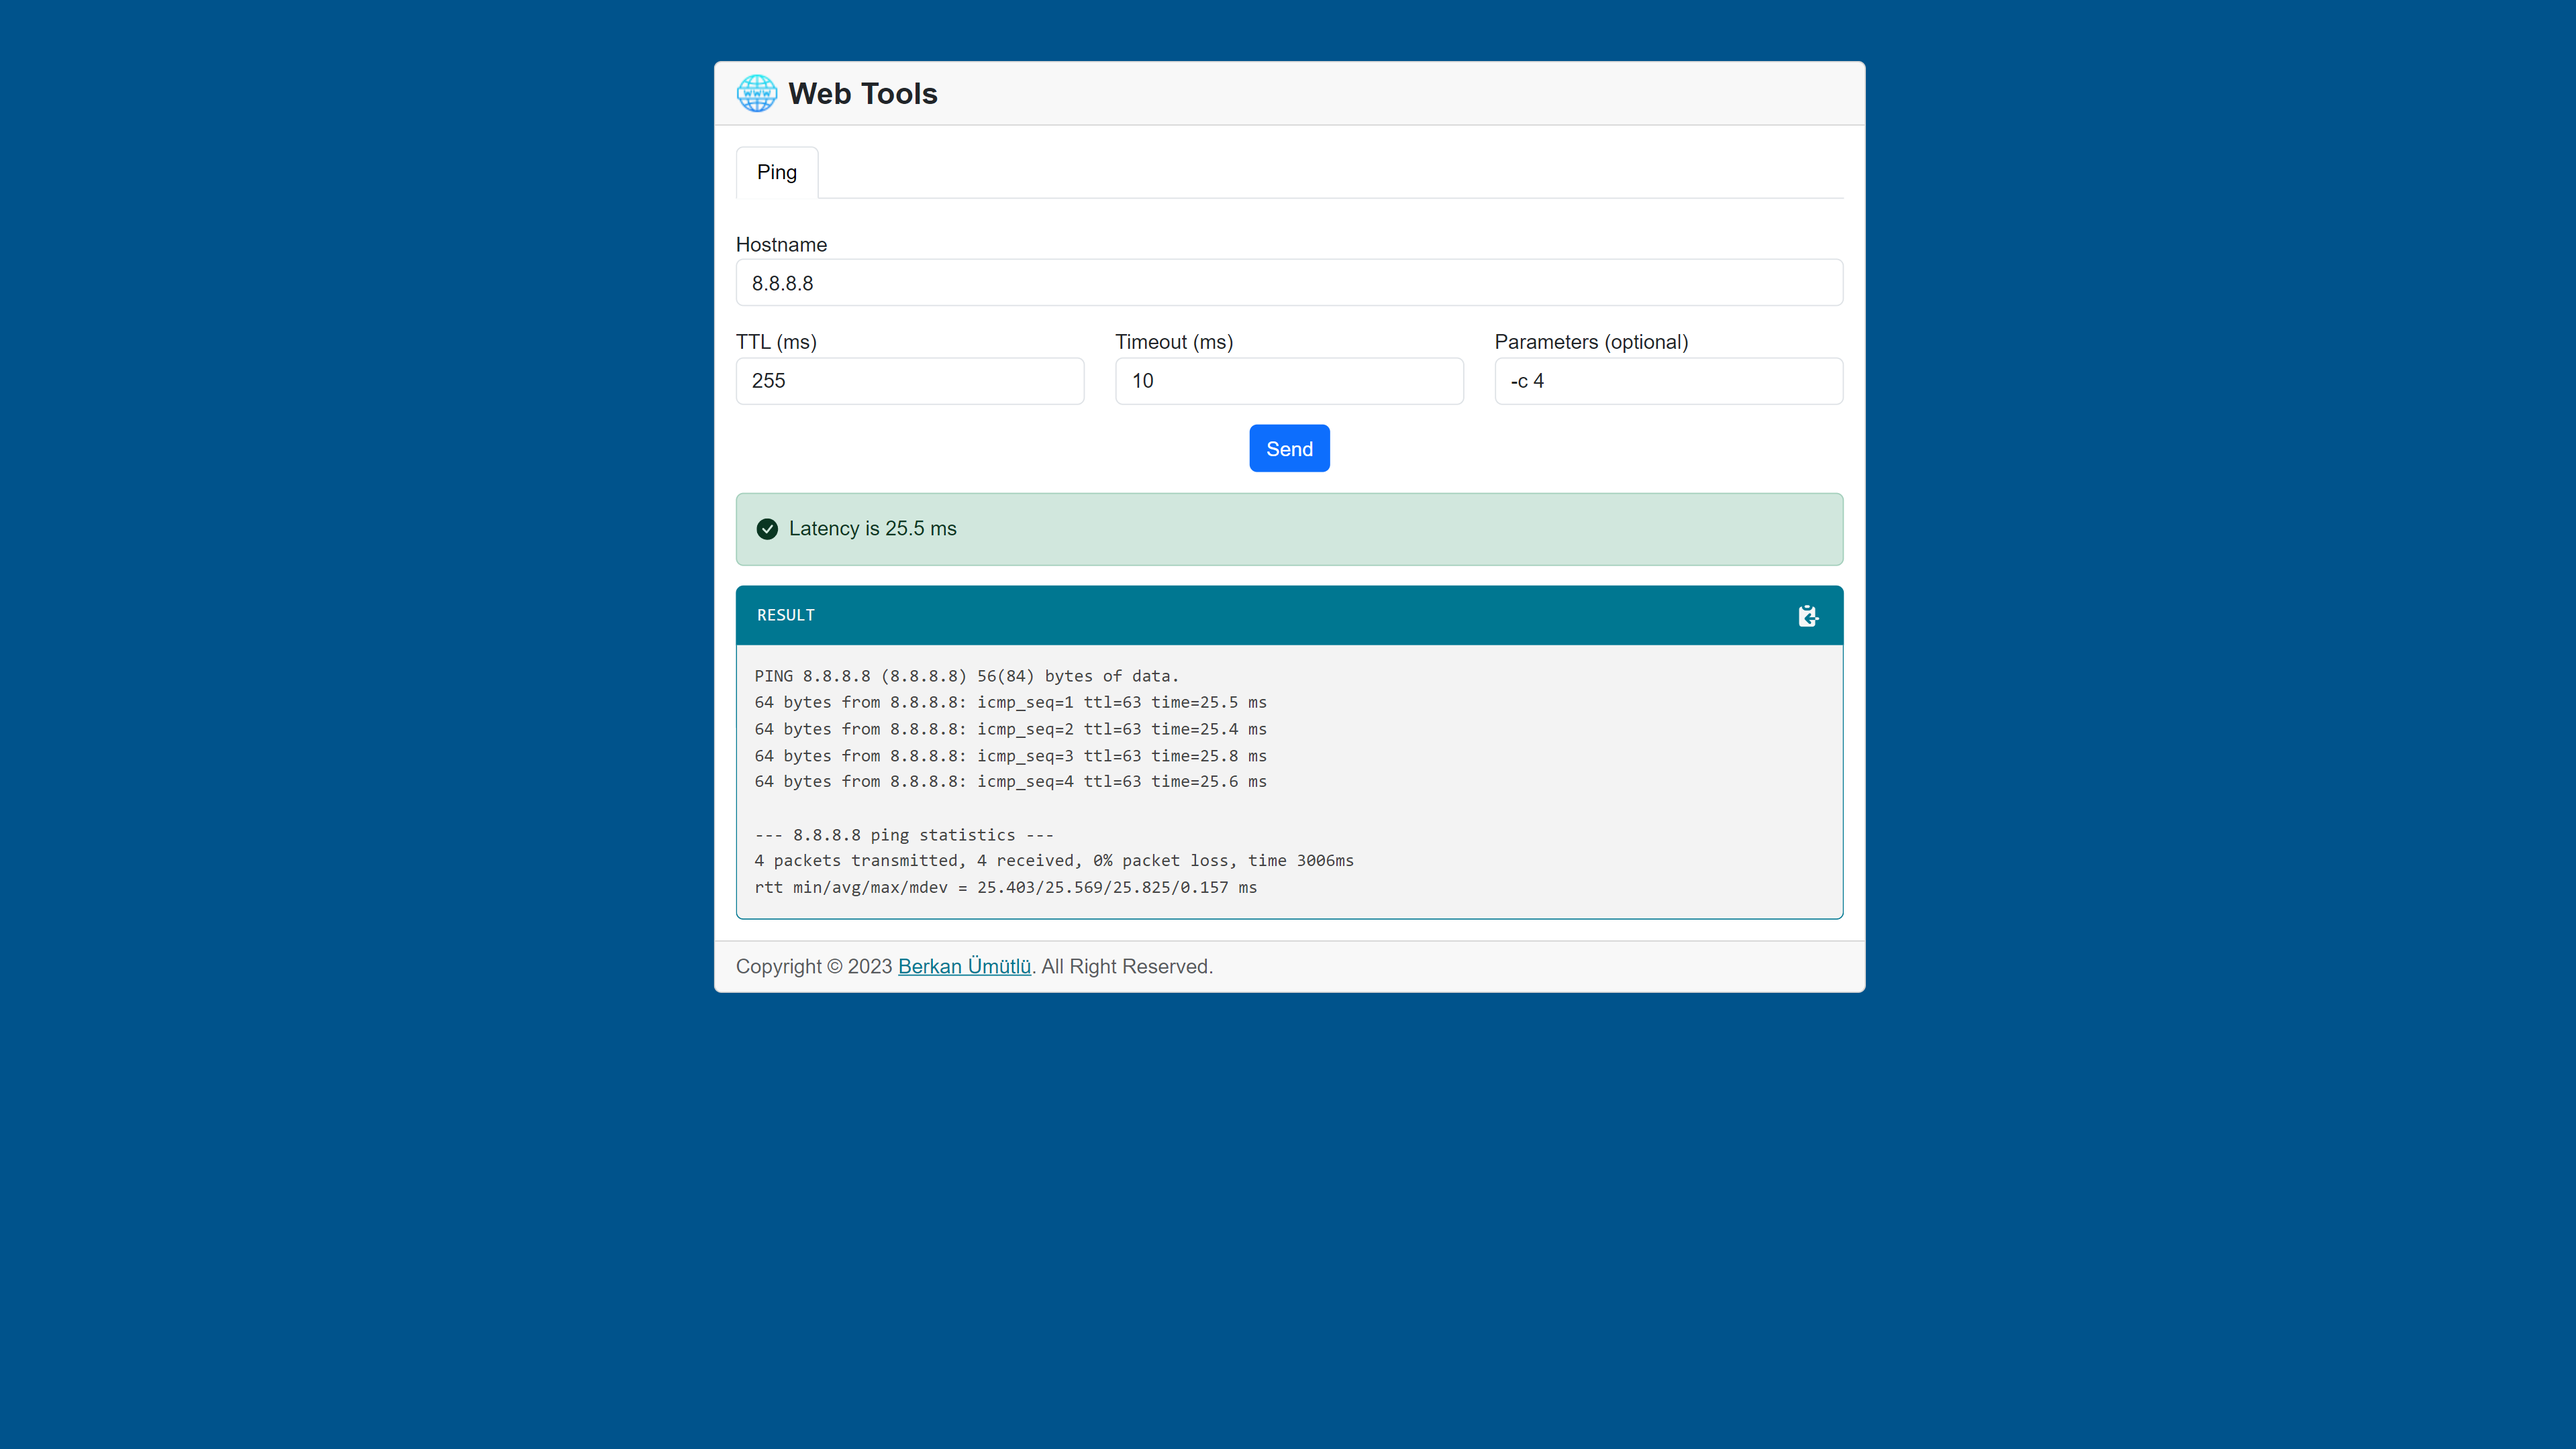
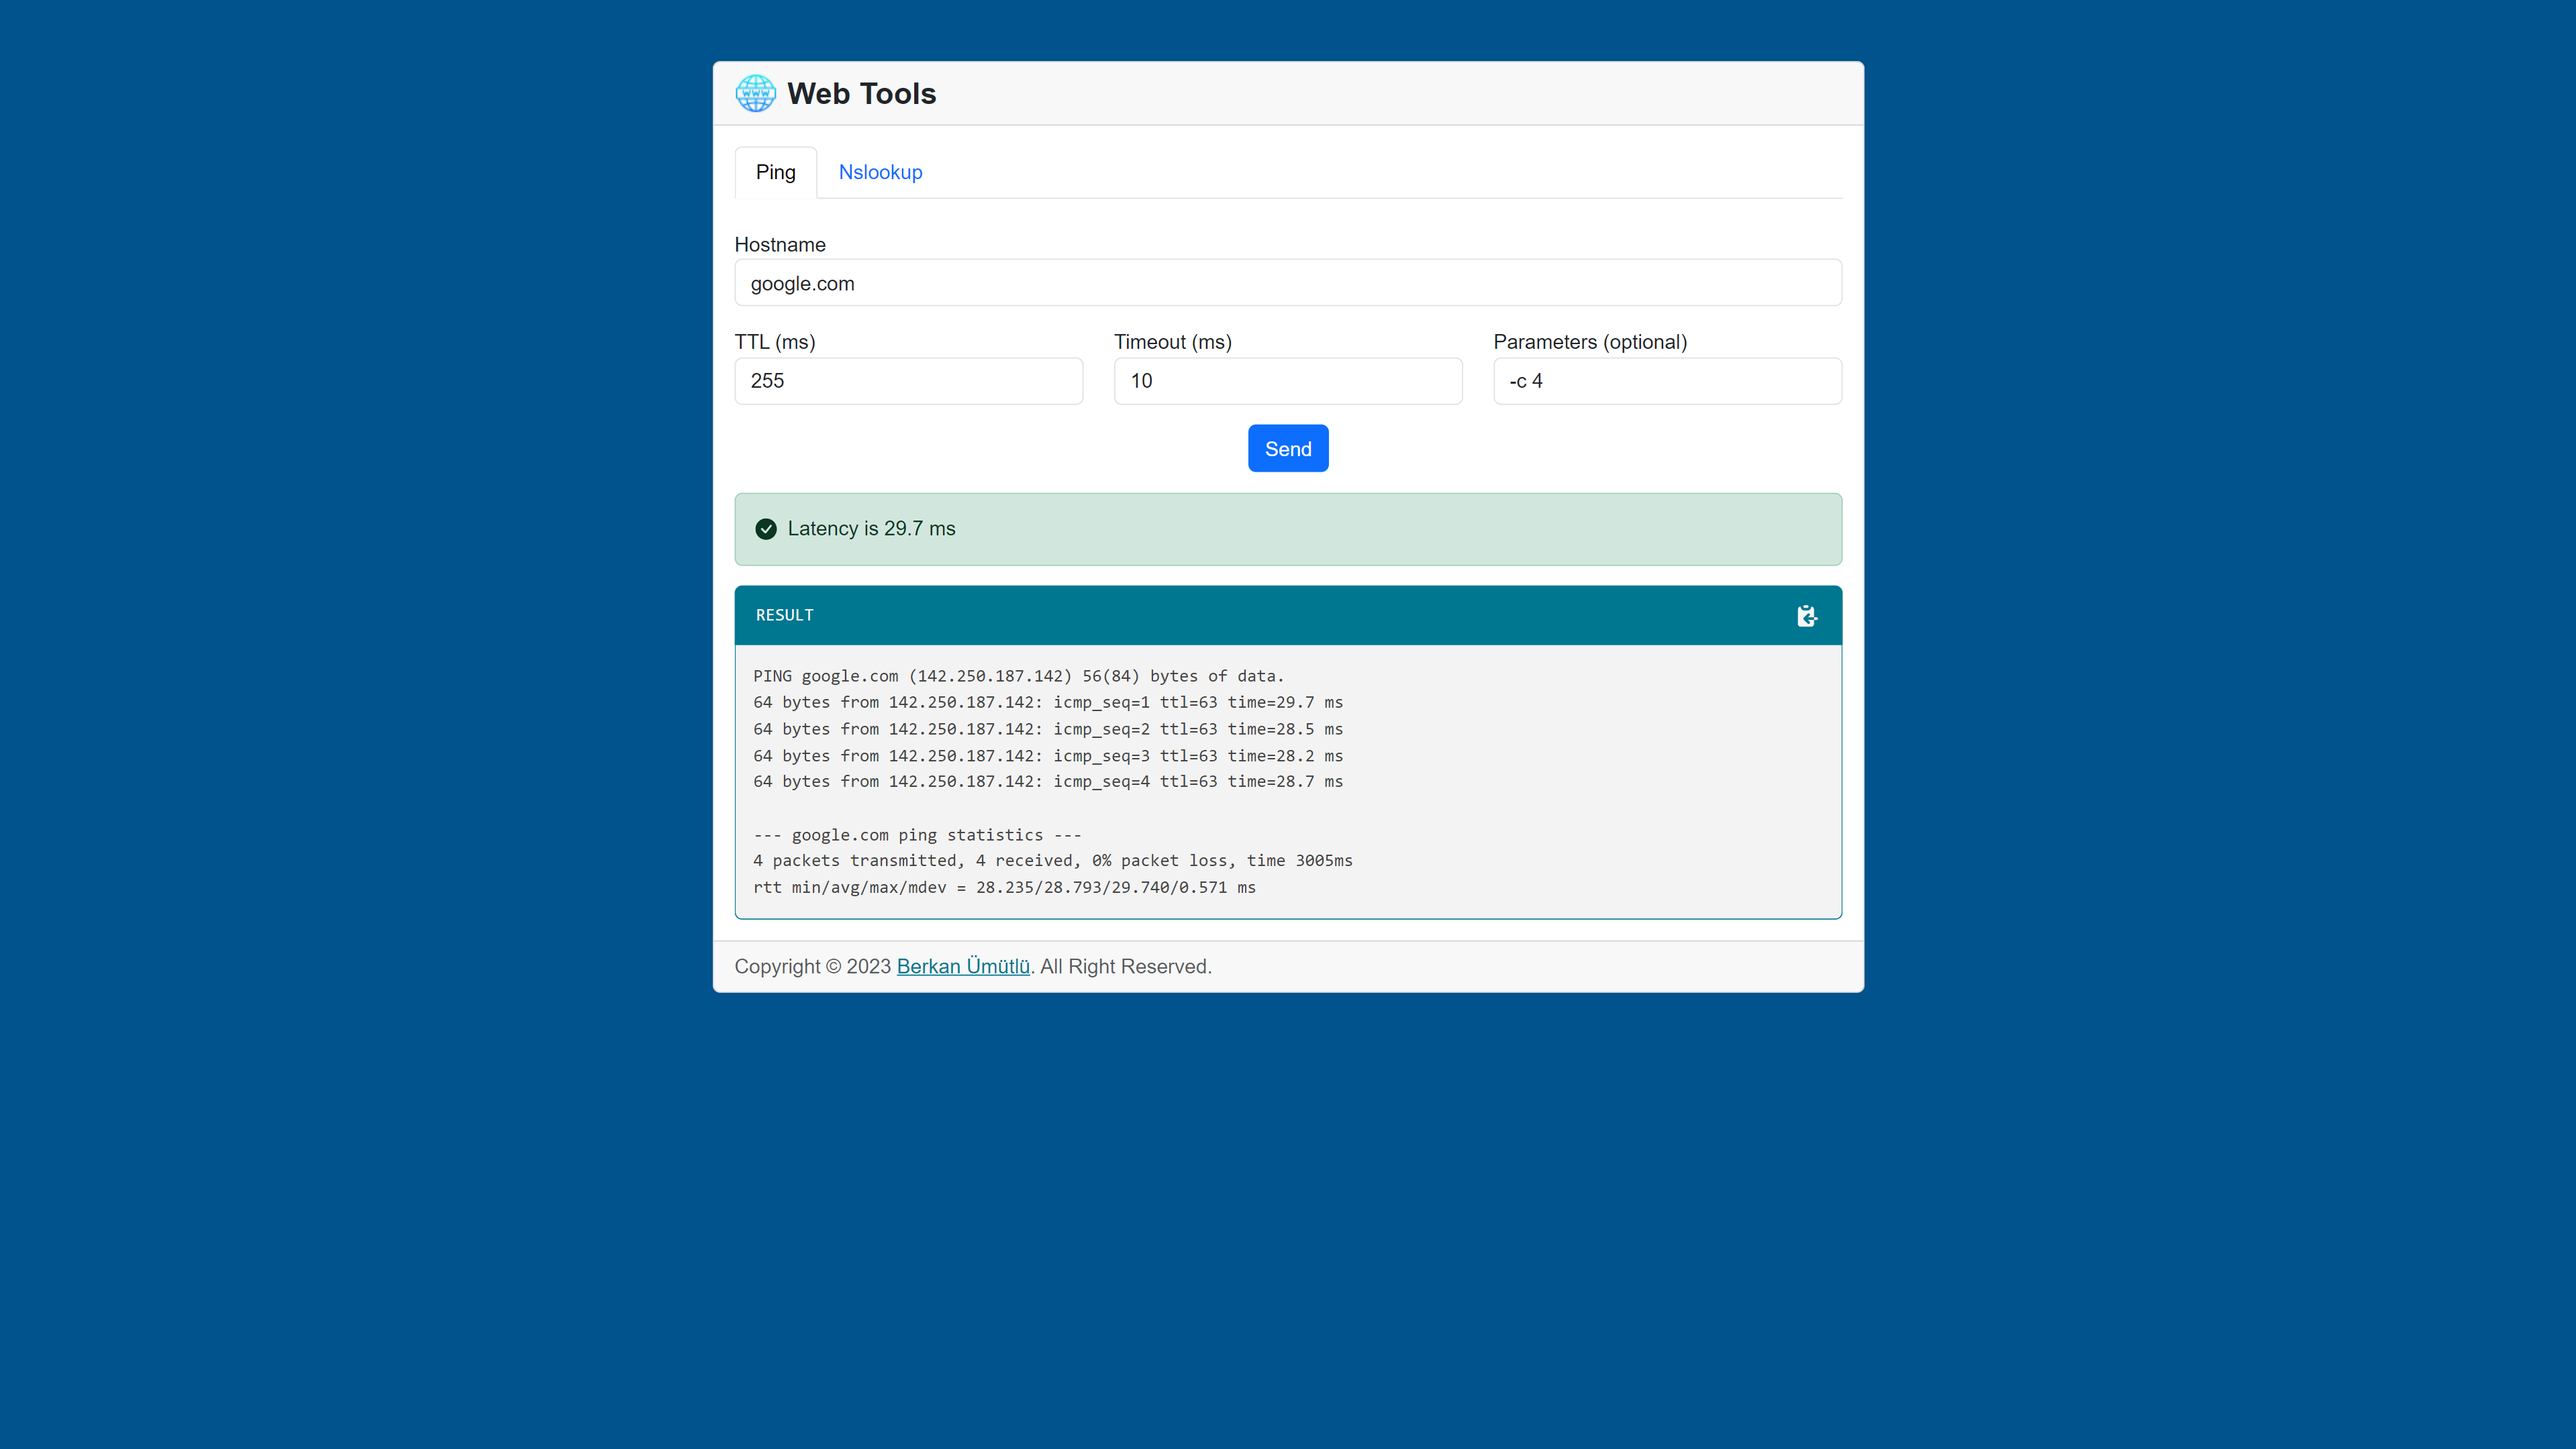
Update README.md

diff --git a/README.md b/README.md
@@ -17,7 +17,10 @@ It is a project that contains tools that you can use on your web page.
 
 ## Screenshots
 
+- Ping
 ![screenshot01-ping-form](screenshots/ping.png)
+- Nslookup
+![screenshot01-nslookup-form](screenshots/nslookup.png)
 
 ## License
 
